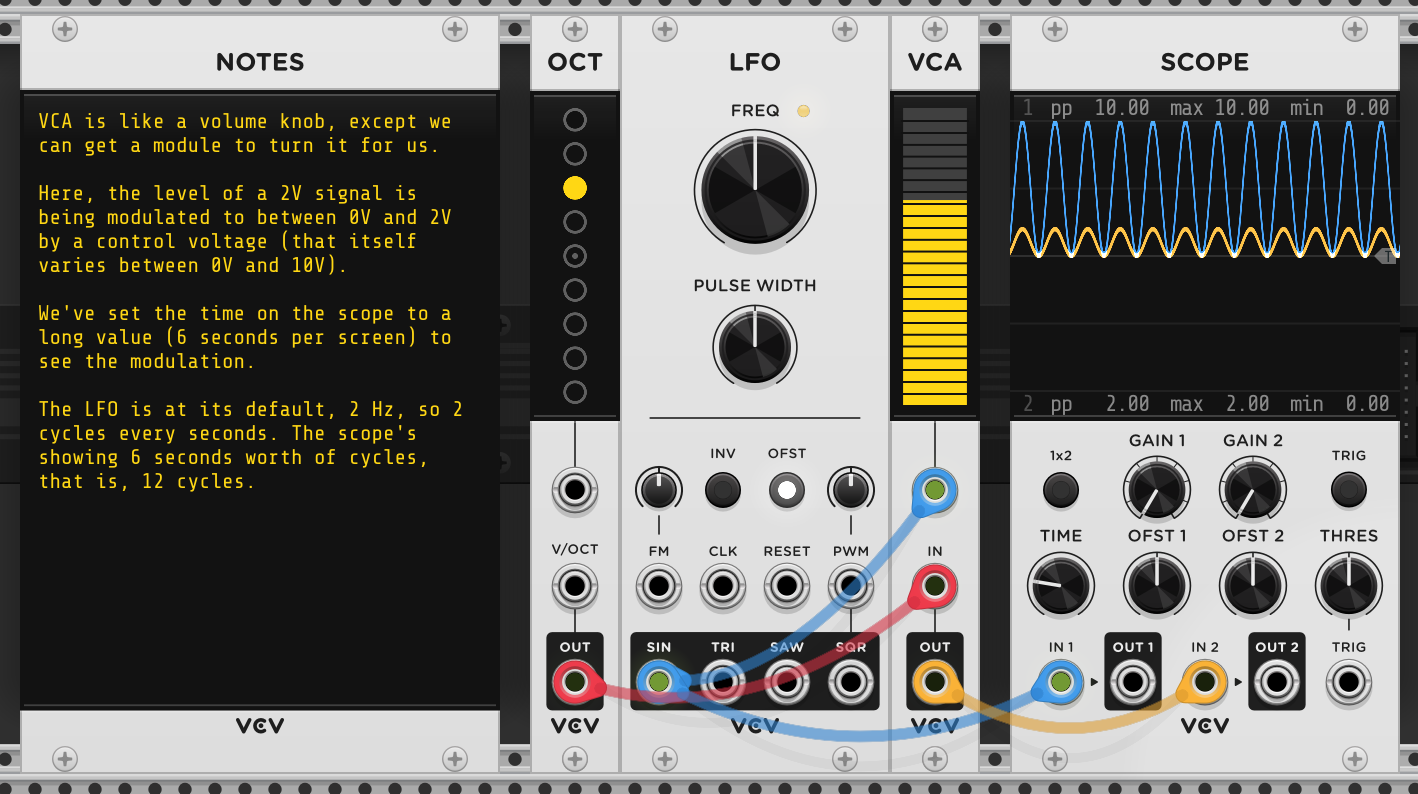
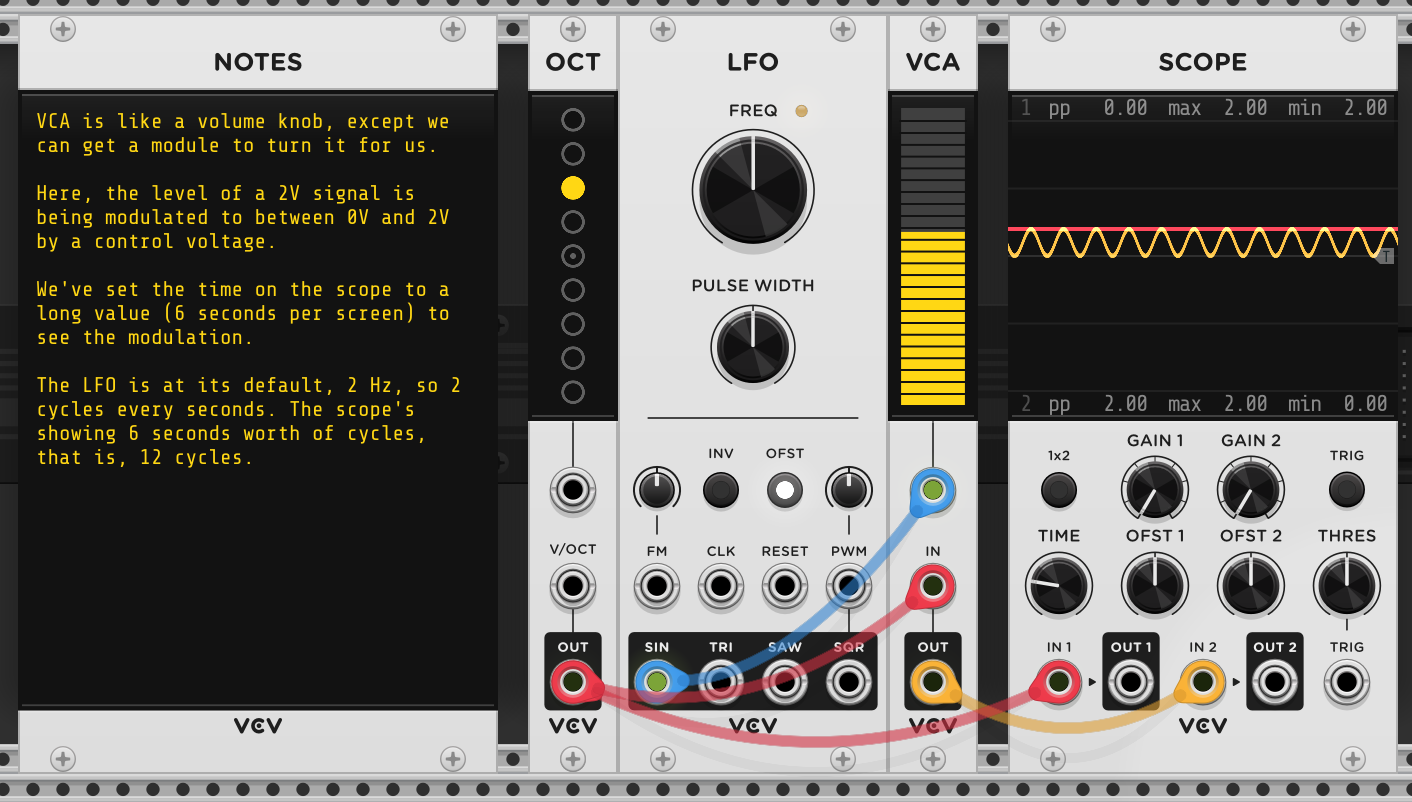
vca 3

diff --git a/modules/README.md b/modules/README.md
@@ -394,6 +394,10 @@ for you.
 
 ![VCA level can be controlled by a control voltage](i/vca-2.png)
 
+With a control voltage of 0V being 0% level, and 10V being 100% level.
+
+![VCA output vs the level control voltage](i/vca-3.png)
+
 > [!NOTE]
 >
 > Notice how we're passing a fixed "control voltage" of 1 to the _IN_ of the VCA
@@ -405,7 +409,6 @@ for you.
 > It is only in the context of a musical patch that there might be ergonomic and
 > functional reasons for using CV Mix for control voltages and VCA (or VCA Mix)
 > for audio voltages.
-
 
 ## VCA Mix
 
